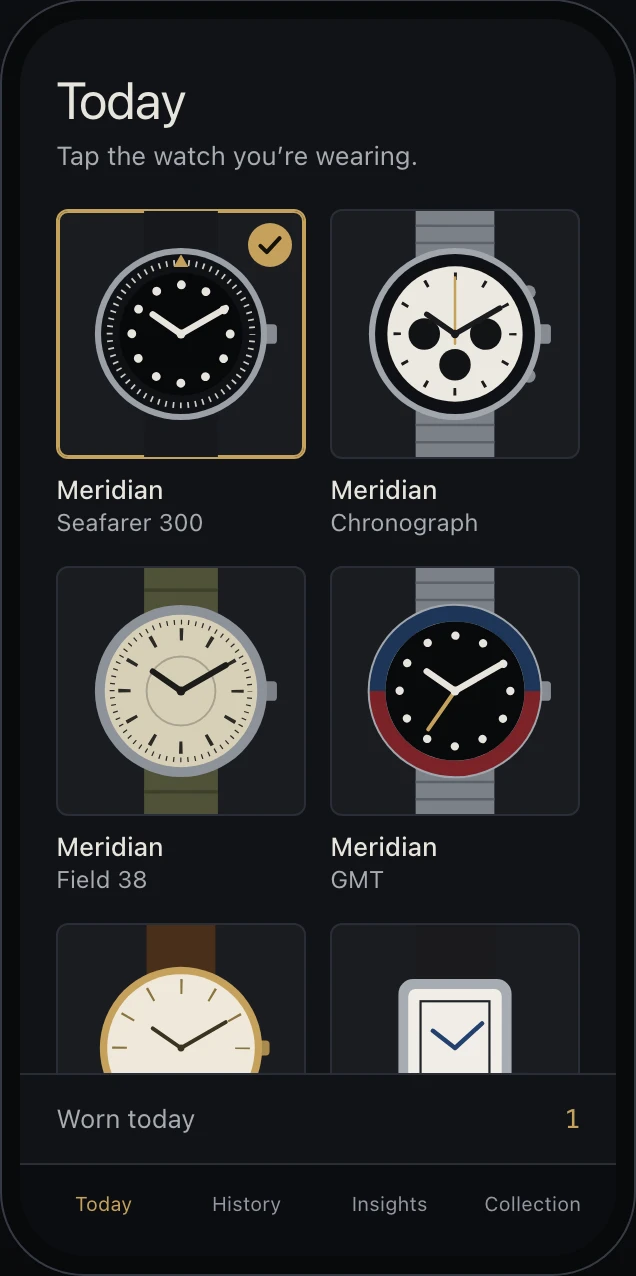
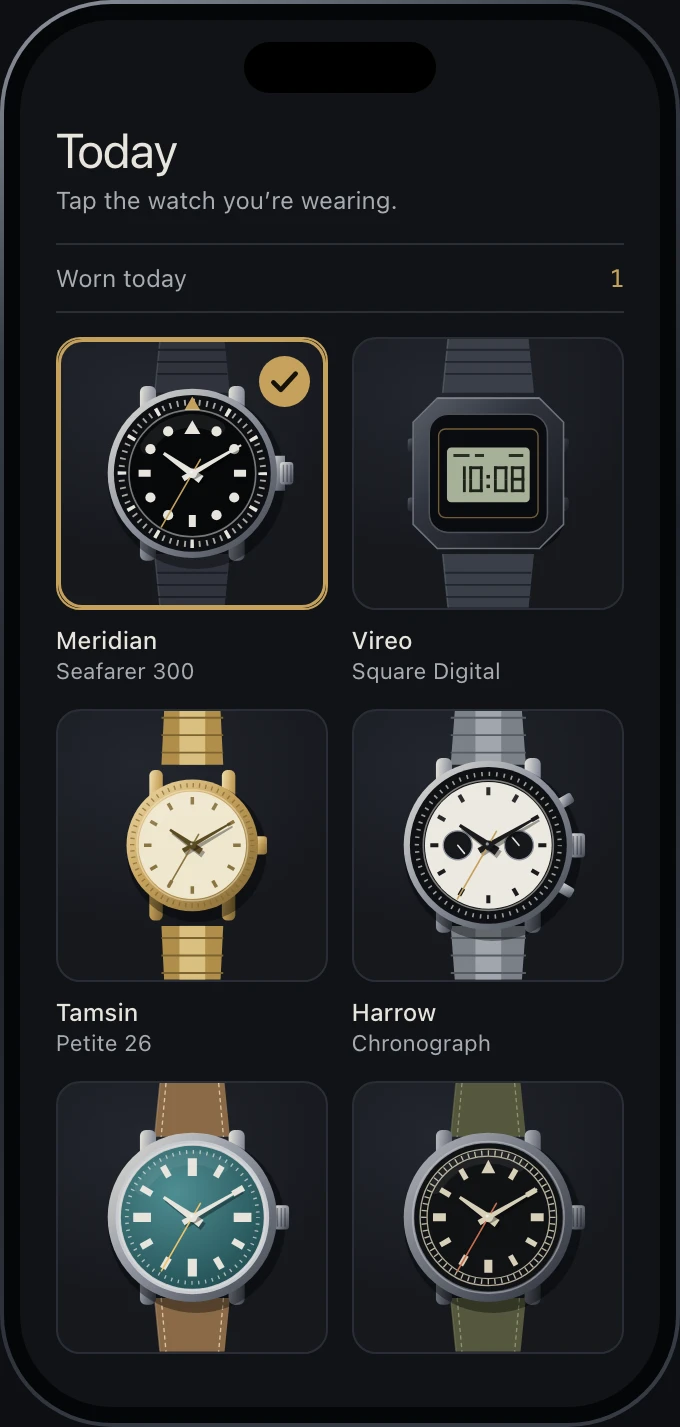
Show the Tracker's current Today screen on the product entries
The Tracker site went live at the family standard today with a redrawn
hero phone: six different watches in place of four round ones. Home and
Products were still showing the old screen. The picture is re-taken
whole at 2x from that site's own build (680 x 1427), and the corner
radius and image dimensions follow the new phone (56px on 340 x 713).

Checked: no horizontal overflow at nine widths on both pages; the image
loads at its real size and keeps its proportions at 375, 768 and 1280.

diff --git a/src/pages/products.html b/src/pages/products.html
@@ -103,7 +103,7 @@ modified: 2026-10-13
       <p class="doclinks"><a class="link link-tap" href="https://watchvaulttracker.com/terms">Watch Vault Tracker Terms of Service</a> <a class="link link-tap" href="https://watchvaulttracker.com/privacy">Watch Vault Tracker Privacy Policy</a></p>
     </div>
     <figure class="product-art col-4 col-first">
-      <img class="phone-whole" src="/img/watch-vault-tracker.webp" width="318" height="638" alt="The Watch Vault Tracker Today screen on an iPhone: a grid of drawn watches under the line &ldquo;Tap the watch you&rsquo;re wearing&rdquo;, with the first watch ticked.">
+      <img class="phone-whole" src="/img/watch-vault-tracker.webp" width="340" height="713" alt="The Watch Vault Tracker Today screen on an iPhone: a grid of drawn watches under the line &ldquo;Tap the watch you&rsquo;re wearing&rdquo;, with the first watch ticked.">
       <figcaption class="caption">An illustration, not a screenshot. The watches are drawn; in the app they are your own photographs.</figcaption>
     </figure>
   </div>

diff --git a/public/products/index.html b/public/products/index.html
@@ -161,7 +161,7 @@
       <p class="doclinks"><a class="link link-tap" href="https://watchvaulttracker.com/terms">Watch Vault Tracker Terms of Service</a> <a class="link link-tap" href="https://watchvaulttracker.com/privacy">Watch Vault Tracker Privacy Policy</a></p>
     </div>
     <figure class="product-art col-4 col-first">
-      <img class="phone-whole" src="/img/watch-vault-tracker.webp" width="318" height="638" alt="The Watch Vault Tracker Today screen on an iPhone: a grid of drawn watches under the line &ldquo;Tap the watch you&rsquo;re wearing&rdquo;, with the first watch ticked.">
+      <img class="phone-whole" src="/img/watch-vault-tracker.webp" width="340" height="713" alt="The Watch Vault Tracker Today screen on an iPhone: a grid of drawn watches under the line &ldquo;Tap the watch you&rsquo;re wearing&rdquo;, with the first watch ticked.">
       <figcaption class="caption">An illustration, not a screenshot. The watches are drawn; in the app they are your own photographs.</figcaption>
     </figure>
   </div>

diff --git a/public/index.html b/public/index.html
@@ -172,7 +172,7 @@
         <p class="status"><span>In development</span><span class="visually-hidden">, </span> <span class="status-dot" aria-hidden="true">·</span> <span>coming Winter&nbsp;2027</span></p>
         <figure class="figure">
           <div class="stage">
-            <img class="phone" src="/img/watch-vault-tracker.webp" width="318" height="638" alt="The Watch Vault Tracker Today screen on an iPhone: a grid of drawn watches under the line &ldquo;Tap the watch you&rsquo;re wearing&rdquo;, with the first watch ticked.">
+            <img class="phone" src="/img/watch-vault-tracker.webp" width="340" height="713" alt="The Watch Vault Tracker Today screen on an iPhone: a grid of drawn watches under the line &ldquo;Tap the watch you&rsquo;re wearing&rdquo;, with the first watch ticked.">
           </div>
           <figcaption class="caption caption-inset">An illustration, not a screenshot.</figcaption>
         </figure>

diff --git a/src/pages/index.html b/src/pages/index.html
@@ -114,7 +114,7 @@ modified: 2026-10-13
         {{include:status}}
         <figure class="figure">
           <div class="stage">
-            <img class="phone" src="/img/watch-vault-tracker.webp" width="318" height="638" alt="The Watch Vault Tracker Today screen on an iPhone: a grid of drawn watches under the line &ldquo;Tap the watch you&rsquo;re wearing&rdquo;, with the first watch ticked.">
+            <img class="phone" src="/img/watch-vault-tracker.webp" width="340" height="713" alt="The Watch Vault Tracker Today screen on an iPhone: a grid of drawn watches under the line &ldquo;Tap the watch you&rsquo;re wearing&rdquo;, with the first watch ticked.">
           </div>
           <figcaption class="caption caption-inset">An illustration, not a screenshot.</figcaption>
         </figure>

diff --git a/public/styles/site.css b/public/styles/site.css
@@ -759,7 +759,7 @@ svg {
   .phone {
     width: min(15rem, 100%);
     margin-inline: auto;
-    border-radius: 13.2% / 6.6%;
+    border-radius: 16.5% / 7.85%;
   }
 }
 
@@ -792,7 +792,7 @@ svg {
     left: calc(50% - 7.5rem);
     width: 15rem;
     max-width: none;
-    border-radius: 13.2% / 6.6%;
+    border-radius: 16.5% / 7.85%;
   }
 
   .entry-link {
@@ -1158,7 +1158,7 @@ svg {
 
 .phone-whole {
   width: min(18.75rem, 100%);
-  border-radius: 13.2% / 6.6%;
+  border-radius: 16.5% / 7.85%;
 }
 
 .doclinks {

diff --git a/README.md b/README.md
@@ -39,7 +39,10 @@ When a fact about the company or a product changes, change it in the page **and*
 - `public/og-image.png` is rendered from `tools/og-image.html` (the command is at the top of that file).
 - `public/img/watch-vault-archive.webp` is the Archive's own published product image, unmodified.
   The Home page shows list rows four to six of it (see the note in section 4.7 of the stylesheet).
-- `public/img/watch-vault-tracker.webp` is the Tracker site's phone illustration, captured at 2x.
+- `public/img/watch-vault-tracker.webp` is the Tracker site's hero phone (its Today screen),
+  captured whole at 2x (680 x 1427) from that site's own build. Re-take it when their hero
+  phone changes; its corner is 56px on a 340 x 713 phone, which is the `16.5% / 7.85%` radius
+  in the stylesheet.
 - `public/img/watch-vault-tracker-lockup.svg` is the Tracker's lockup artwork: replace the file
   from the Tracker's own artwork, never redraw a shape.
 
